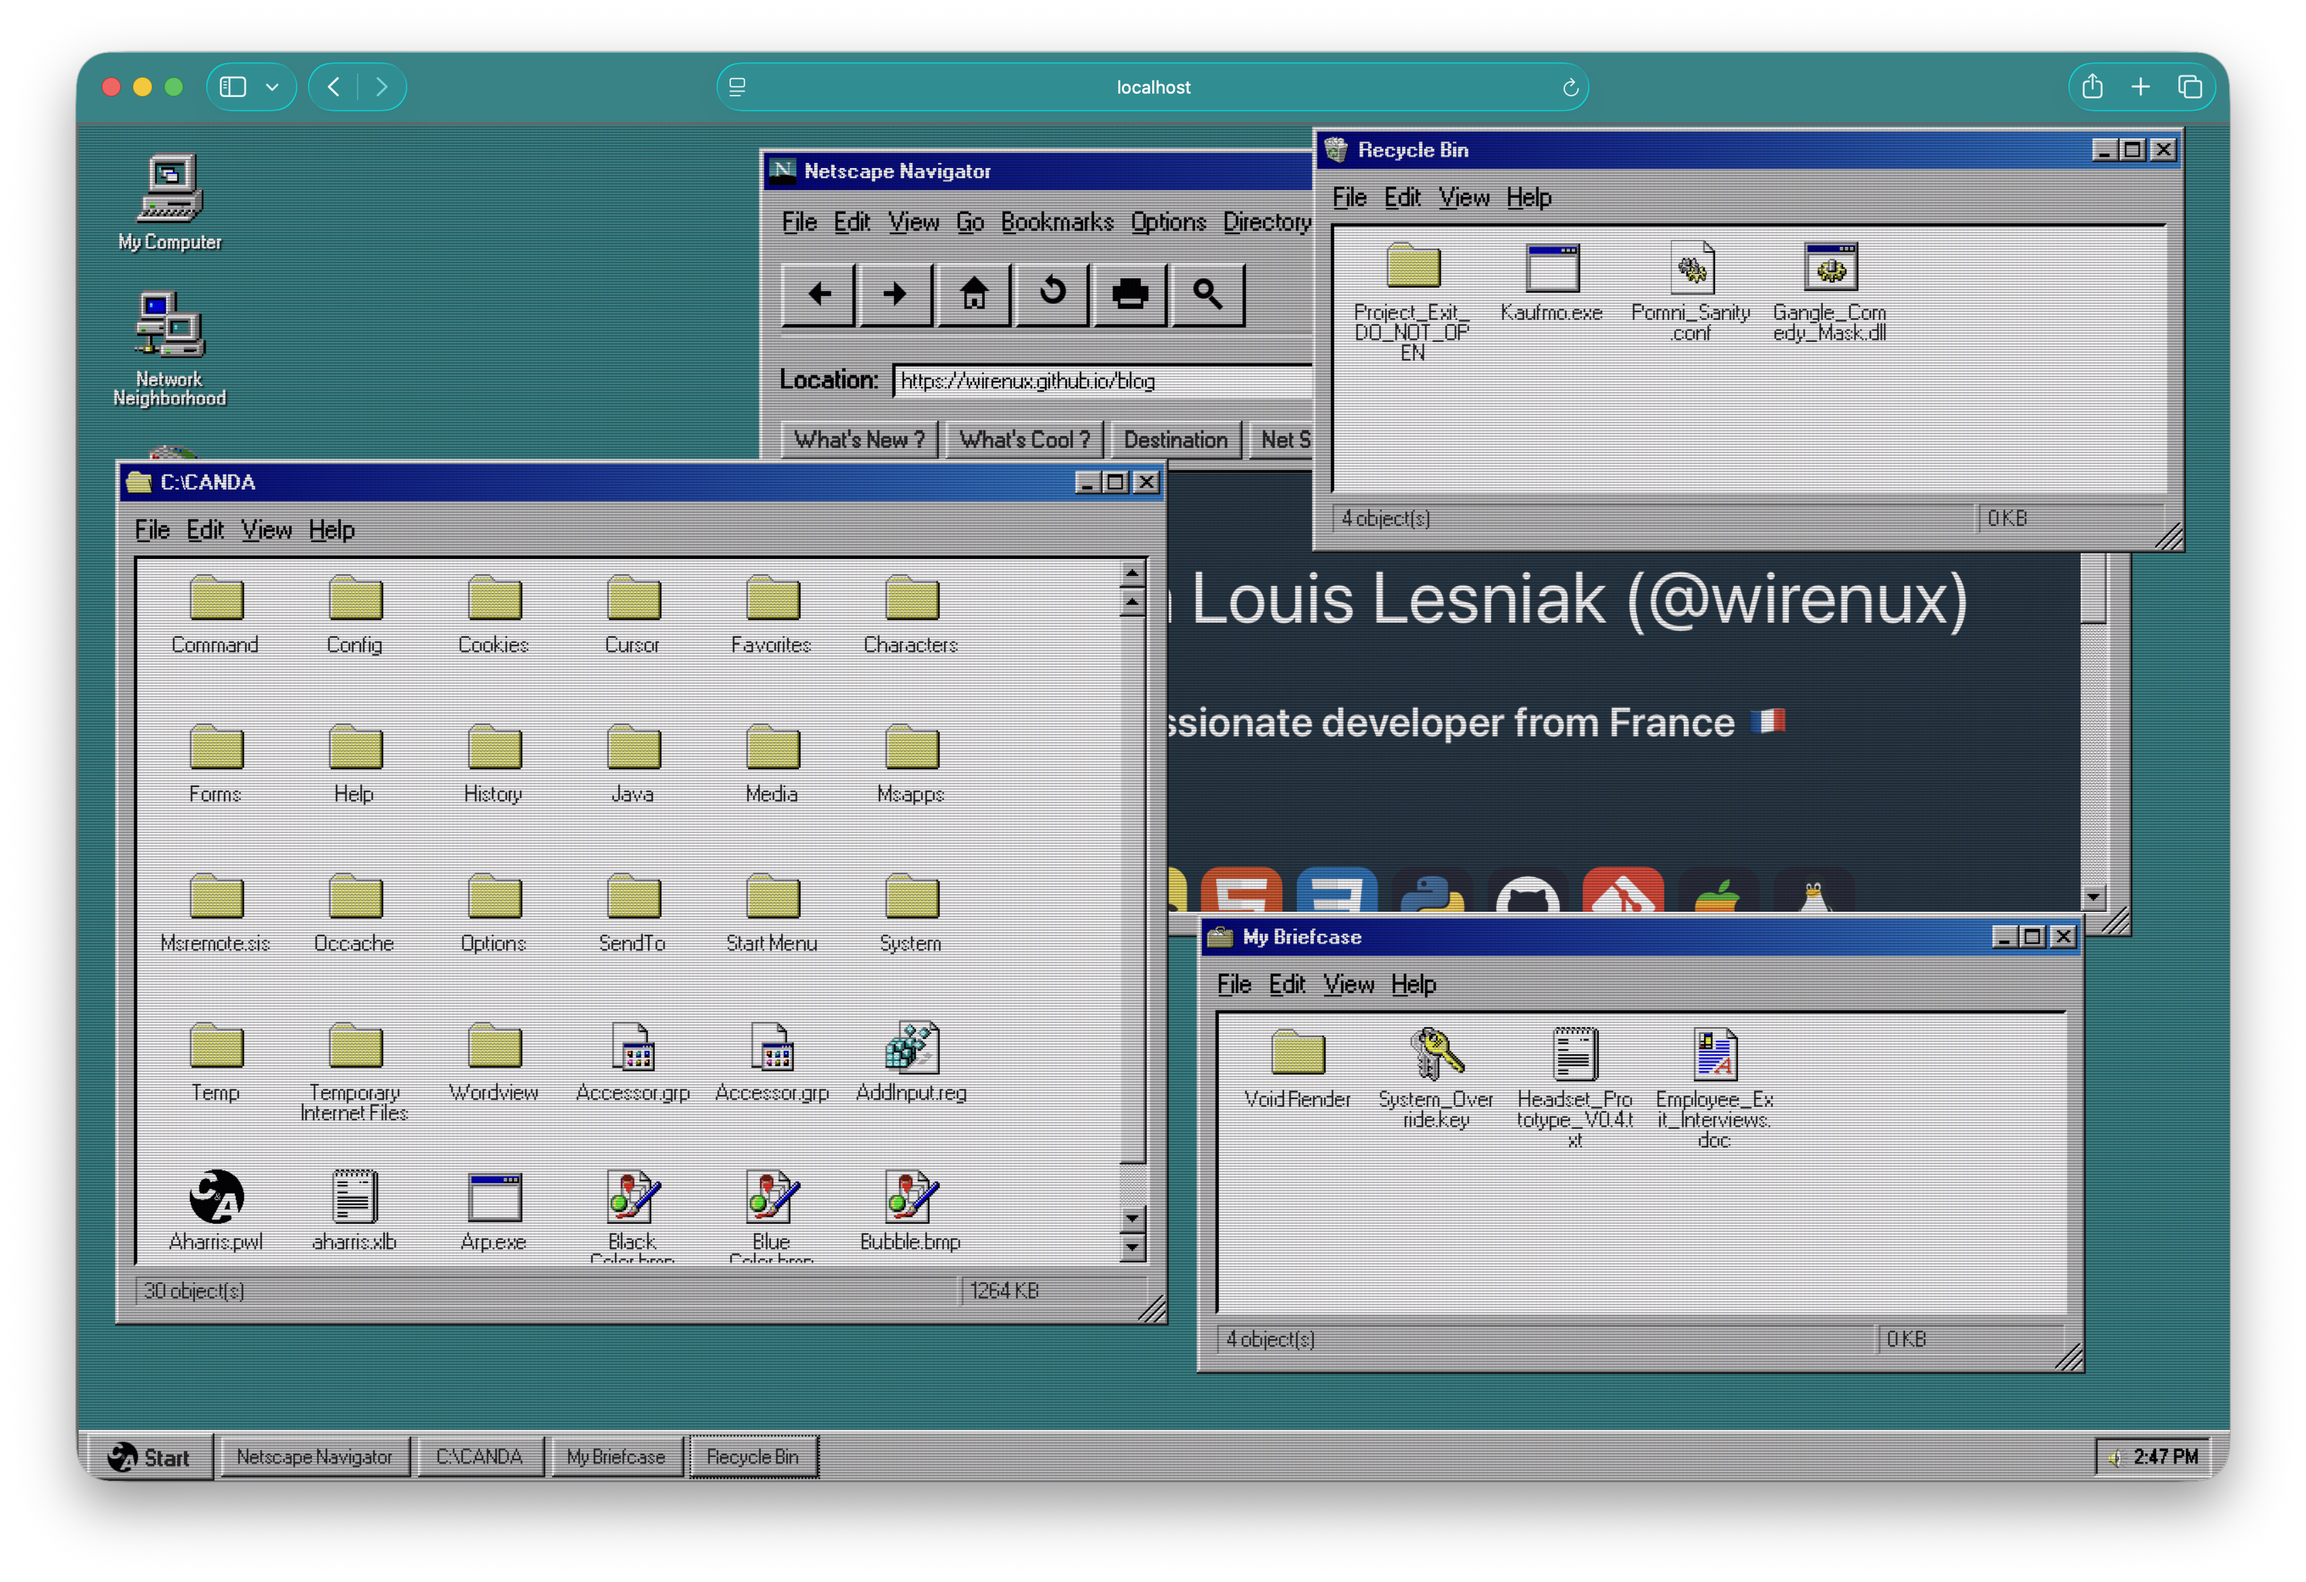
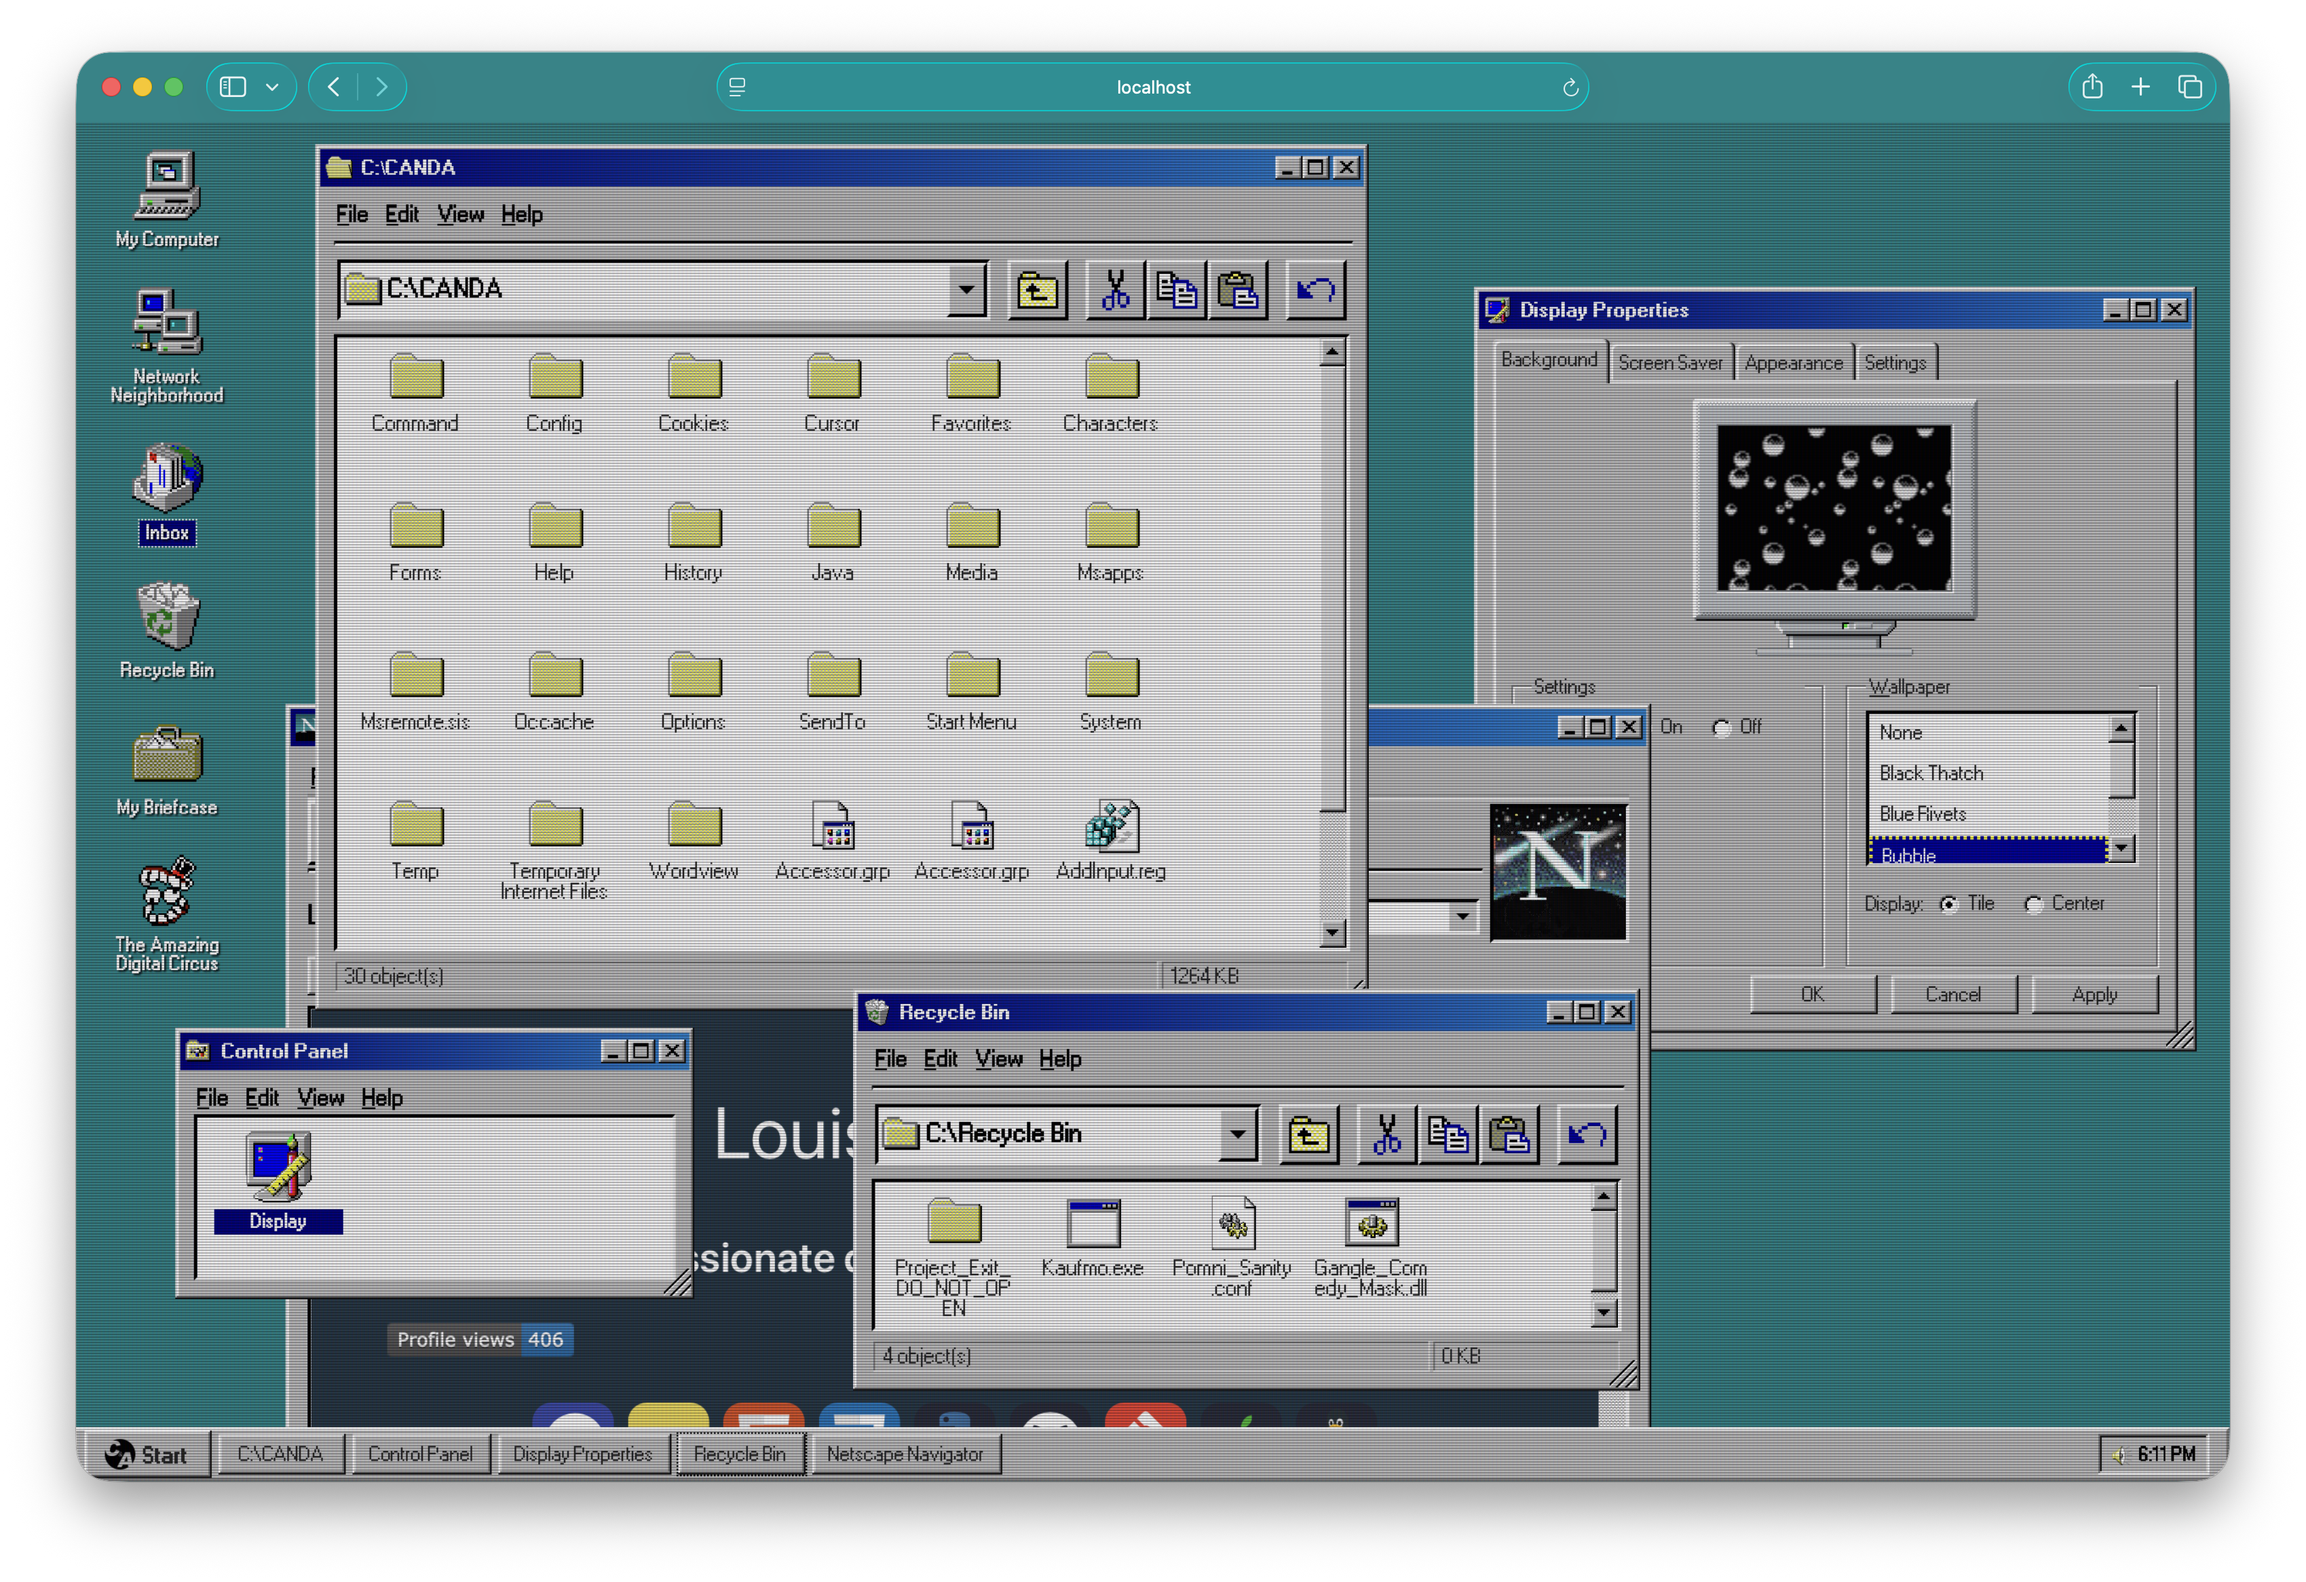
Update: README for 2nd Ship

diff --git a/README.md b/README.md
@@ -16,6 +16,8 @@
 > [!CAUTION]
 > **Photosensitivity/Epilepsy Warning**
 > This project features retro CRT screen shaders, flashing animations, and fast-moving visual effects (such as the CAINE animation sequence). If you have a history of epilepsy or photosensitivity, please exercise caution when interacting with the live demo.
+>
+> **Good News:** You can completely disable the CRT and scanline effects! Check out the [Settings & Customization Guide](Settings.md) to learn how to toggle visual effects and protect your eyes.
 
 ## What is KingOS 95?
 
@@ -25,33 +27,51 @@ An entirely local browser-based **Operating System** (**OS**) that is inspired b
 > **Useful Info:**
 > * **Login Credentials:**
 > * * Username: `kinger`
-> * * Password: `queenie123`
+> * * Password: `queenie123` or Leave Empty
 > * **Classic Scenario :** Go to `My Computer` -> `Characters` -> `AI` -> `CAINE`, then spam your keys or `Enter` to trigger the animation loop!
 
-<table align="center">
+<table align="center" border="0">
   <tr>
-    <td align="center"><img src="assets/desktop.png" width="512px"/><br><sub><b>Desktop</b></sub></td>
-    <td align="center"><img src="assets/boot.png" width="570px"/><br><sub><b>Bios Startup</b></sub></td>
-    <td align="center"><img src="assets/login.png" width="512px"/><br><sub><b>Login</b></sub></td>
+    <td colspan="2" align="center">
+      <img src="assets/winBoot.png" width="320px"/><br>
+      <sub><b>Windows Boot screen</b></sub>
+    </td>
+    <td colspan="2" align="center">
+      <img src="assets/boot.png" width="320px"/><br>
+      <sub><b>Startup</b></sub>
+    </td>
+    <td colspan="2" align="center">
+      <img src="assets/login.png" width="320px"/><br>
+      <sub><b>Login</b></sub>
+    </td>
   </tr>
+
   <tr>
     <td colspan="3" align="center">
-      <table border="0">
-        <tr>
-          <td align="center"><img src="assets/winBoot.png" width="512px"/><br><sub><b>Windows Boot screen</b></sub></td>
-          <td style="width: 20px;"></td> <td align="center"><img src="assets/main.png" width="512px"/><br><sub><b>Purge AI Error</b></sub></td>
-        </tr>
-      </table>
+      <img src="assets/desktop.png" width="512px"/><br>
+      <sub><b>Desktop</b></sub>
+    </td>
+    <td colspan="3" align="center">
+      <img src="assets/bios.png" width="512px"/><br>
+      <sub><b>Bios</b></sub>
+    </td>
+  </tr>
+
+  <tr>
+    <td colspan="6" align="center">
+      <img src="assets/main.png" width="612px"/><br>
+      <sub><b>Purge AI Error</b></sub>
     </td>
   </tr>
 </table>
 
 ## Core feature
 
-* **Custom Vector Window Manager:** A lightweight window manager supporting `zIndex` layering, minimizing, maximizing, draging and resizing window
+* **Custom Vector Window Manager:** A lightweight window manager supporting `zIndex` layering, minimizing, maximizing, dragging and resizing window
 * **Virtual JSON Filesystem Mapping:** Dynamic folder and document structure using only a JSON file
 * **CRT Shader:** Scanline and aesthetic from retro display. Overlays optimized for web performance
 * **Start Menu:** Handles internal application spawns, external link, and direct OS state toggles (Log Off / Shut Down).
+* **BIOS Menu:** You can now open an AMI like BIOS !
 * **Bespoke Digital Circus Ecosystem Applications:**
   * **CaineApp:** The classic Cmd used in the show !
   * **PurgeAIProgram:** The app with the progress bar when Caine is being deleted

diff --git a/Settings.md b/Settings.md
@@ -1,0 +1,35 @@
+# KingOS 95 Customization & Settings
+
+Welcome to the KingOS 95 settings guide! I've built this OS to be as immersive and lore-accurate as possible, but I also know that heavy retro shaders aren't for everyone.
+
+Here is how you can customize your experience `(˶ᵔᗜᵔ˶)ﾉﾞ`
+
+## Visual Options
+
+### Toggling the CRT & Scanline Effect
+The screen scanlines, and CRT flicker look awesome, but they can cause eye strain or trigger photosensitivity.
+
+**To remove the effect:**
+* Open the **Settings** app from the **Start Menu**
+* Double Click on the **Display** app in the **Settings** app.
+* Uncheck the box labeled **"CRT Shader Effect"**.
+* Click **Apply** to instantly remove the shader and enjoy a crisp, clean pixel UI!
+
+### Changing Your Wallpaper
+Tired of the default background? In my latest update, I've added a full wallpaper menu
+* Open the **Settings** app from the **Start Menu**
+* Double Click on the **Display** app in the **Settings** app.
+* Browse through the hand-redrawn classic wallpapers.
+* These images are perfectly optimized to tile across the screen (whether they are 16x16, 32x32, 64x64, or 128x128 patterns).
+* Use the live preview window inside the app to see exactly how it will scale to your screen before you hit **Apply**.
+
+## System Configuration (For Developers)
+
+If you are poking around the code and want to change default behaviors or add your own apps:
+
+* **Customizing the Filesystem:** You can easily add new desktop shortcuts, folders, or executables by mapping them out in `src/data/filesystem.json`.
+* **Changing Default OS Boot States:** Looking to skip the BIOS or the boot sequence while testing? You can toggle the initial state in the main application logic inside the `src/main.js` file.
+
+---
+
+*Got an idea for a new setting or an Easter Egg? Check out the [contribution guide in the README](README.md#how-to-contribute-)!* ᕙ(  •̀ ᗜ •́  )ᕗ
